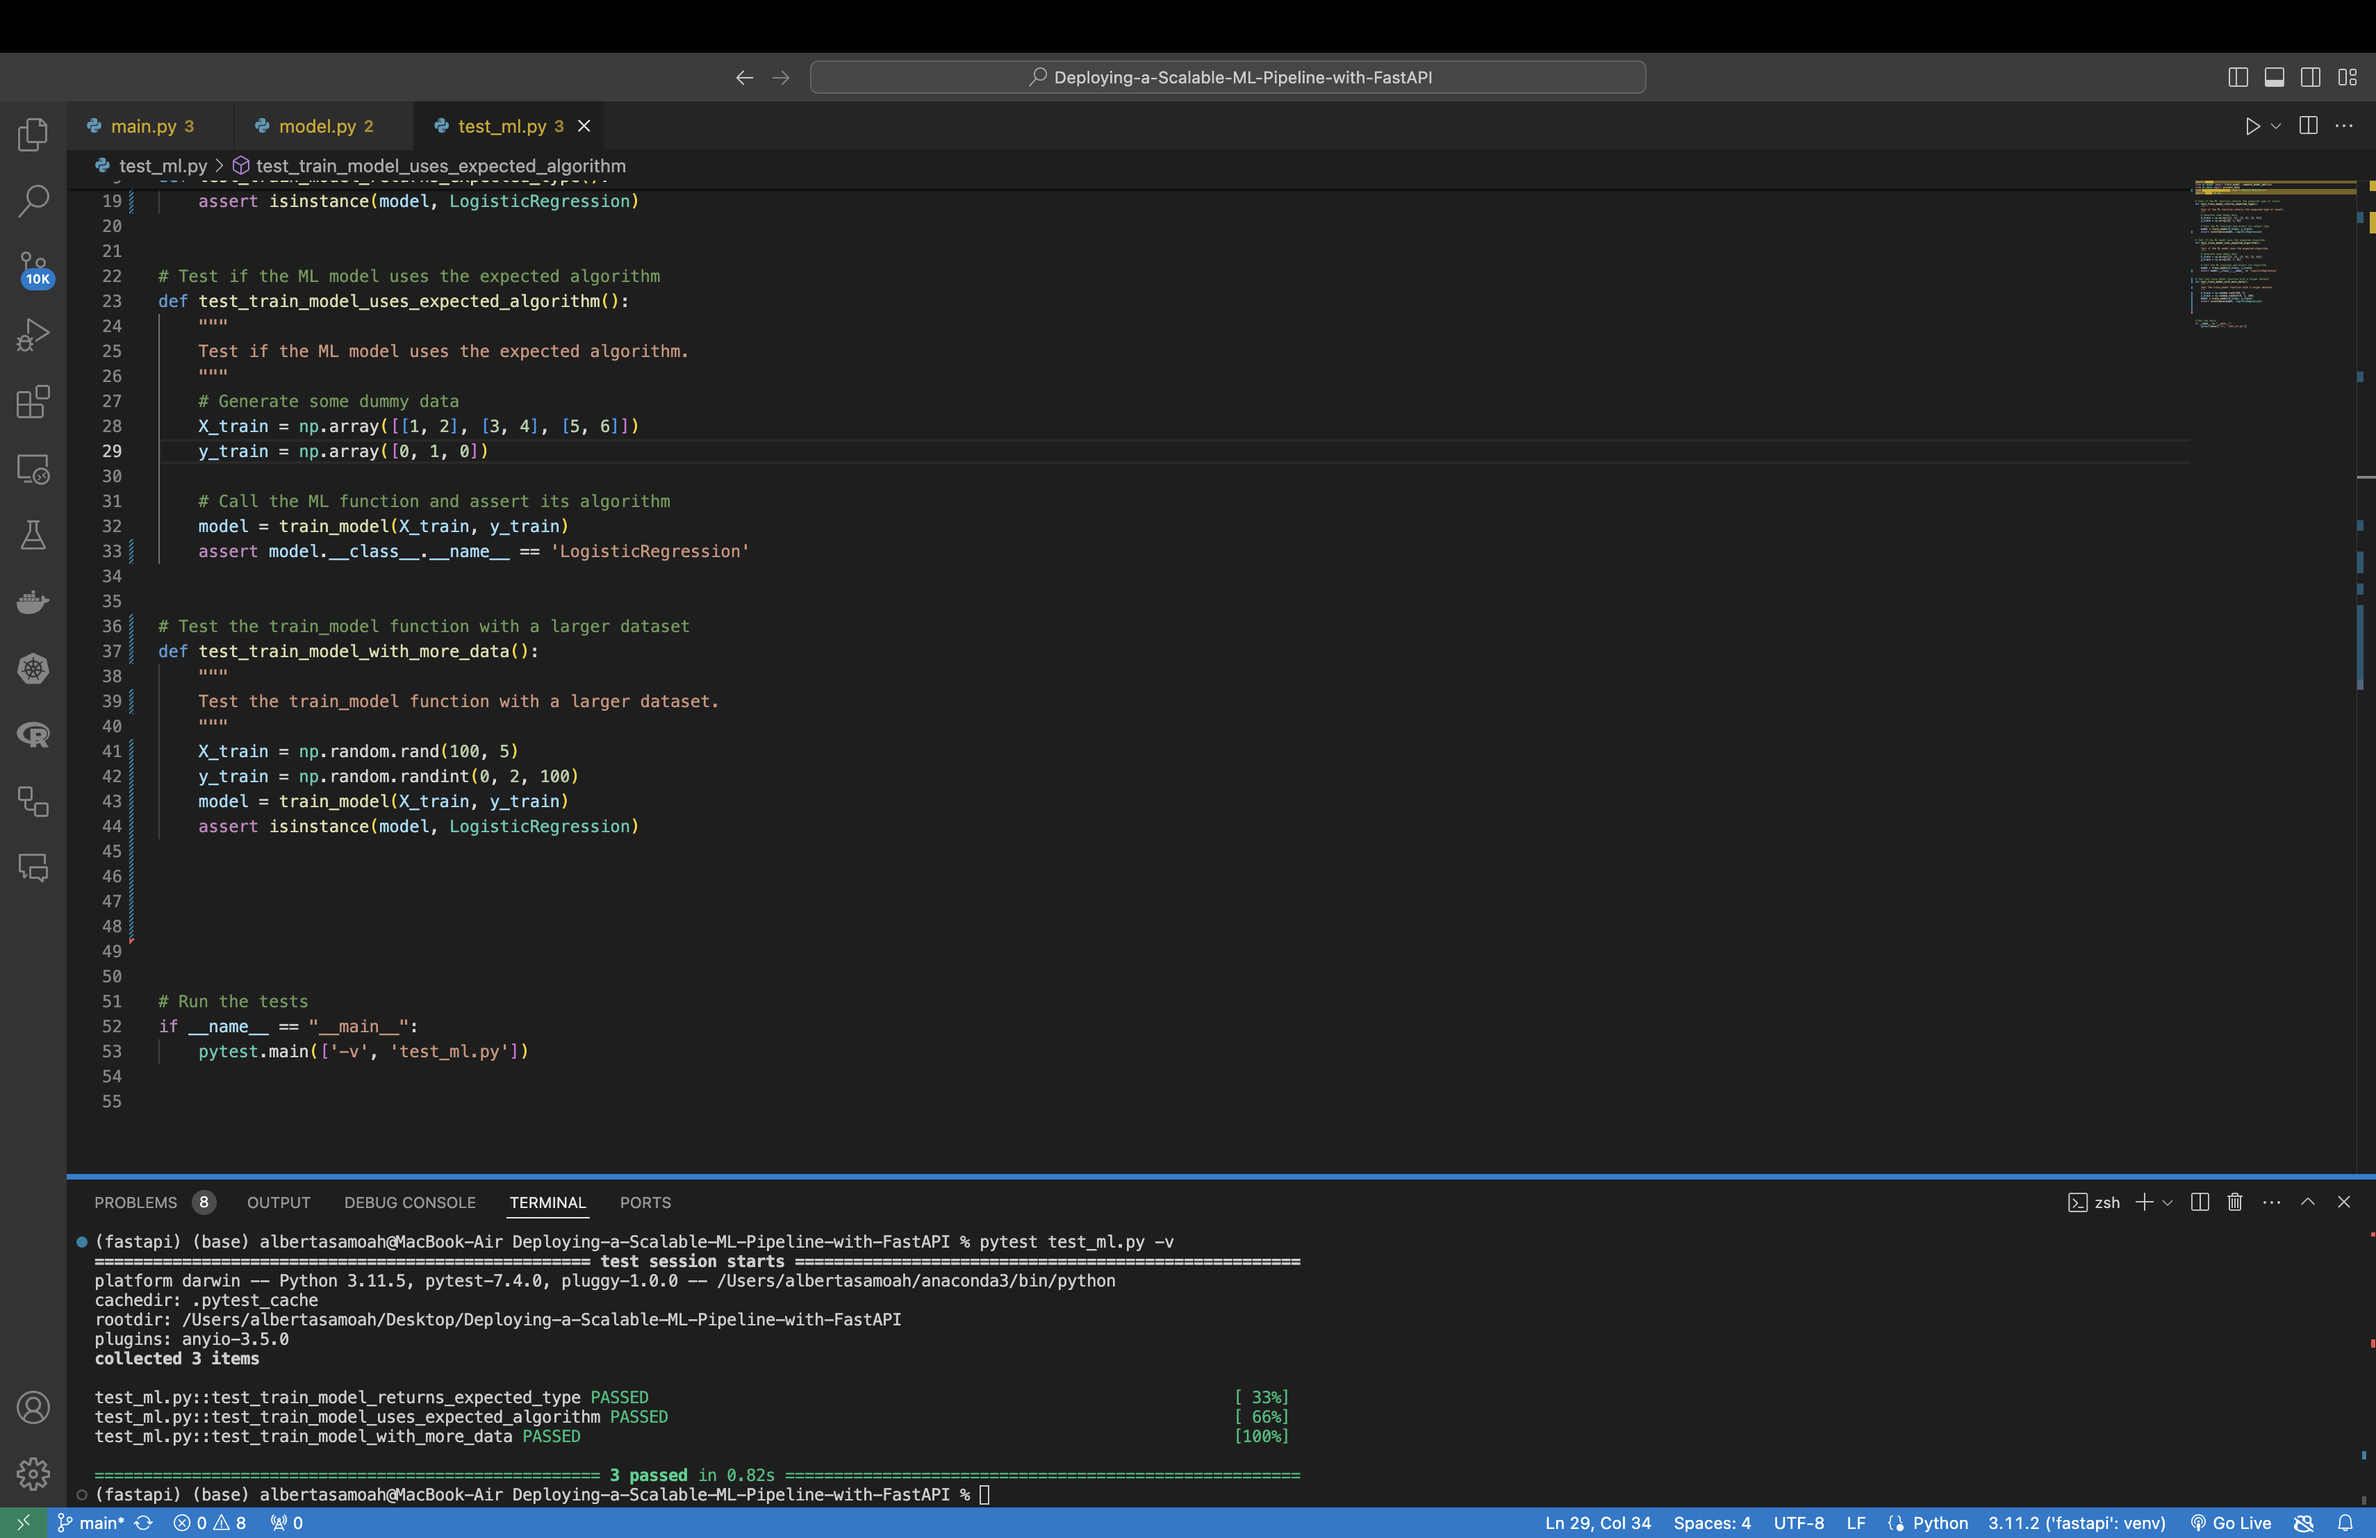
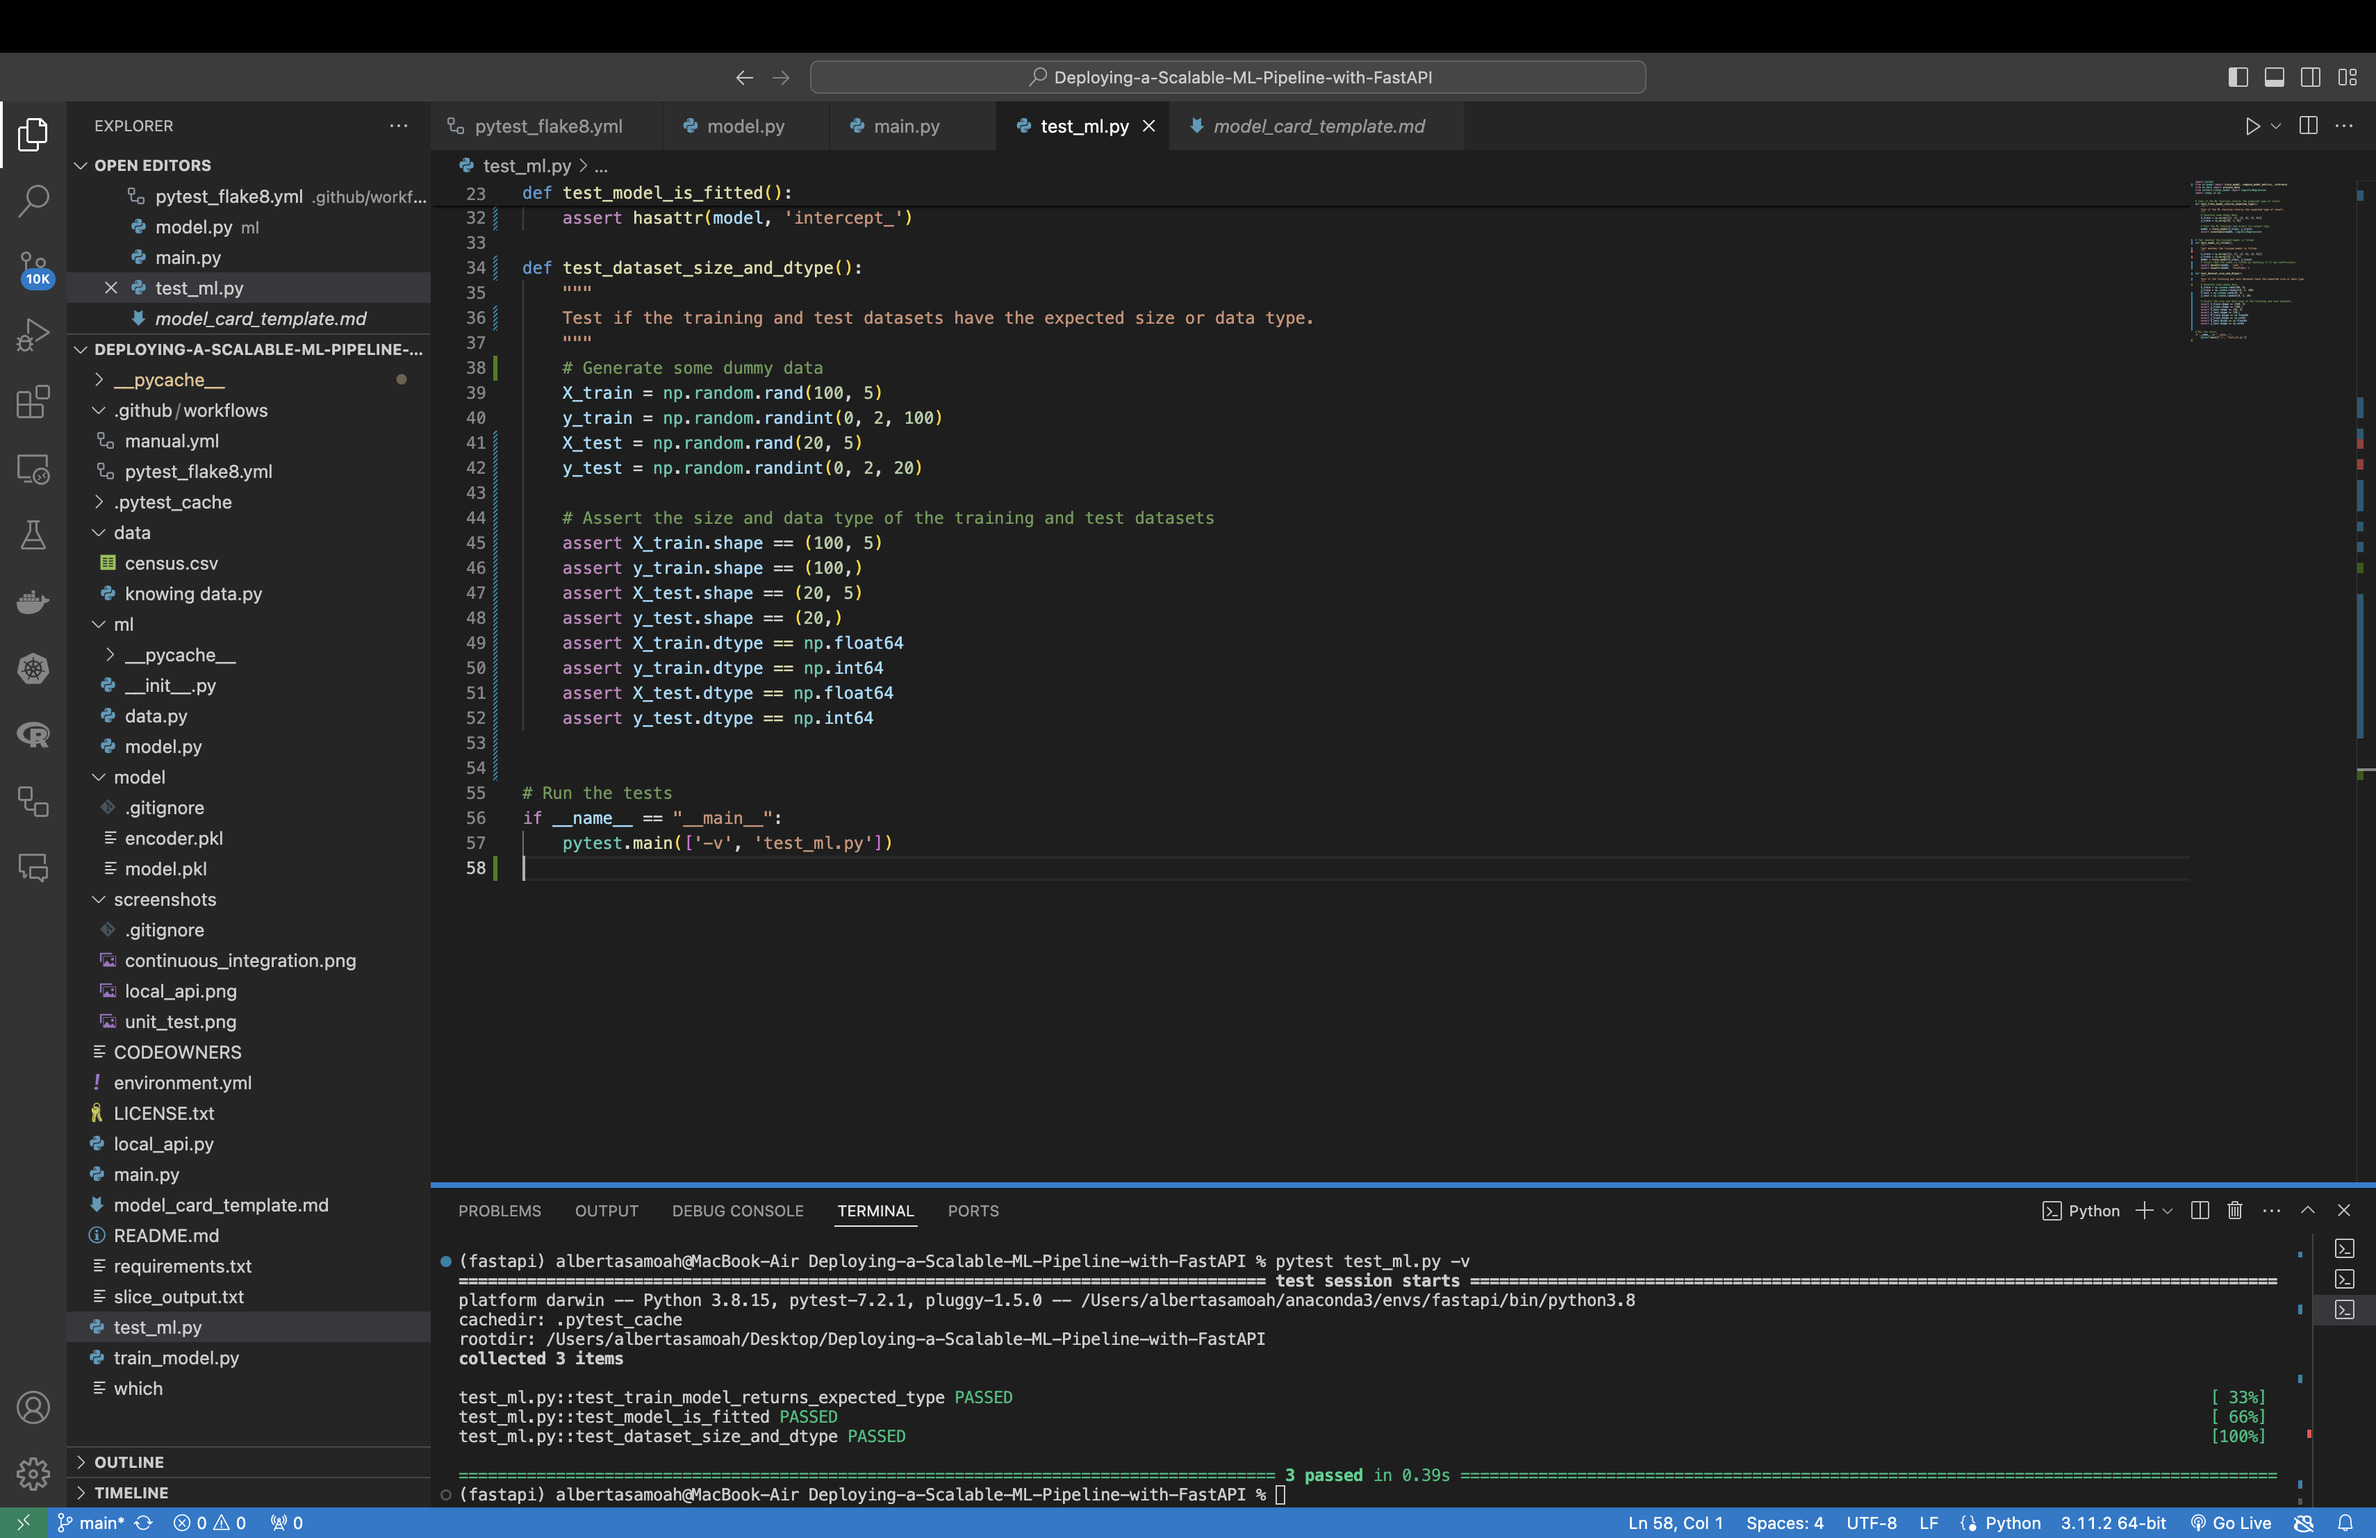
Add model card and update test for dataset size and data type

diff --git a/test_ml.py b/test_ml.py
@@ -1,5 +1,5 @@
 import pytest
-from ml.model import train_model, compute_model_metrics
+from ml.model import train_model, compute_model_metrics, inference
 from ml.data import process_data
 from sklearn.linear_model import LogisticRegression
 import numpy as np
@@ -19,29 +19,39 @@ def test_train_model_returns_expected_type():
     assert isinstance(model, LogisticRegression)
 
 
-# Test if the ML model uses the expected algorithm
-def test_train_model_uses_expected_algorithm():
+# Test whether the trained model is fitted
+def test_model_is_fitted():
     """
-    Test if the ML model uses the expected algorithm.
+    Test whether the trained model is fitted.
     """
-    # Generate some dummy data
     X_train = np.array([[1, 2], [3, 4], [5, 6]])
     y_train = np.array([0, 1, 0])
-    
-    # Call the ML function and assert its algorithm
     model = train_model(X_train, y_train)
-    assert model.__class__.__name__ == 'LogisticRegression'
+    # Assert that the model is fitted by checking if it has coefficients
+    assert hasattr(model, 'coef_')
+    assert hasattr(model, 'intercept_')
 
-
-# Test the train_model function with a larger dataset
-def test_train_model_with_more_data():
+def test_dataset_size_and_dtype():
     """
-    Test the train_model function with a larger dataset.
+    Test if the training and test datasets have the expected size or data type.
     """
+    # Generate some dummy data
     X_train = np.random.rand(100, 5)
     y_train = np.random.randint(0, 2, 100)
-    model = train_model(X_train, y_train)
-    assert isinstance(model, LogisticRegression)
+    X_test = np.random.rand(20, 5)
+    y_test = np.random.randint(0, 2, 20)
+
+    # Assert the size and data type of the training and test datasets
+    assert X_train.shape == (100, 5)
+    assert y_train.shape == (100,)
+    assert X_test.shape == (20, 5)
+    assert y_test.shape == (20,)
+    assert X_train.dtype == np.float64
+    assert y_train.dtype == np.int64
+    assert X_test.dtype == np.float64
+    assert y_test.dtype == np.int64
+
+
 # Run the tests
 if __name__ == "__main__":
     pytest.main(['-v', 'test_ml.py'])

diff --git a/model_card_template.md b/model_card_template.md
@@ -29,7 +29,8 @@ The intended use of this model is to predict whether an individual's income exce
 ## Training Data
 The model was trained on the UCI Adult Census Income dataset (census.csv), which contains demographic information such as age, education, marital status, occupation, etc., along with corresponding income labels.
 ## Evaluation Data
-The model was evaluated on a separate test dataset split from the same UCI Adult Census Income dataset.
+The model was evaluated on a separate test dataset split from the same UCI Adult Census Income dataset. Approximately 20% of the total dataset was used for evaluation.
+
 ## Metrics
 _Please include the metrics used and your model's performance on those metrics._
 
